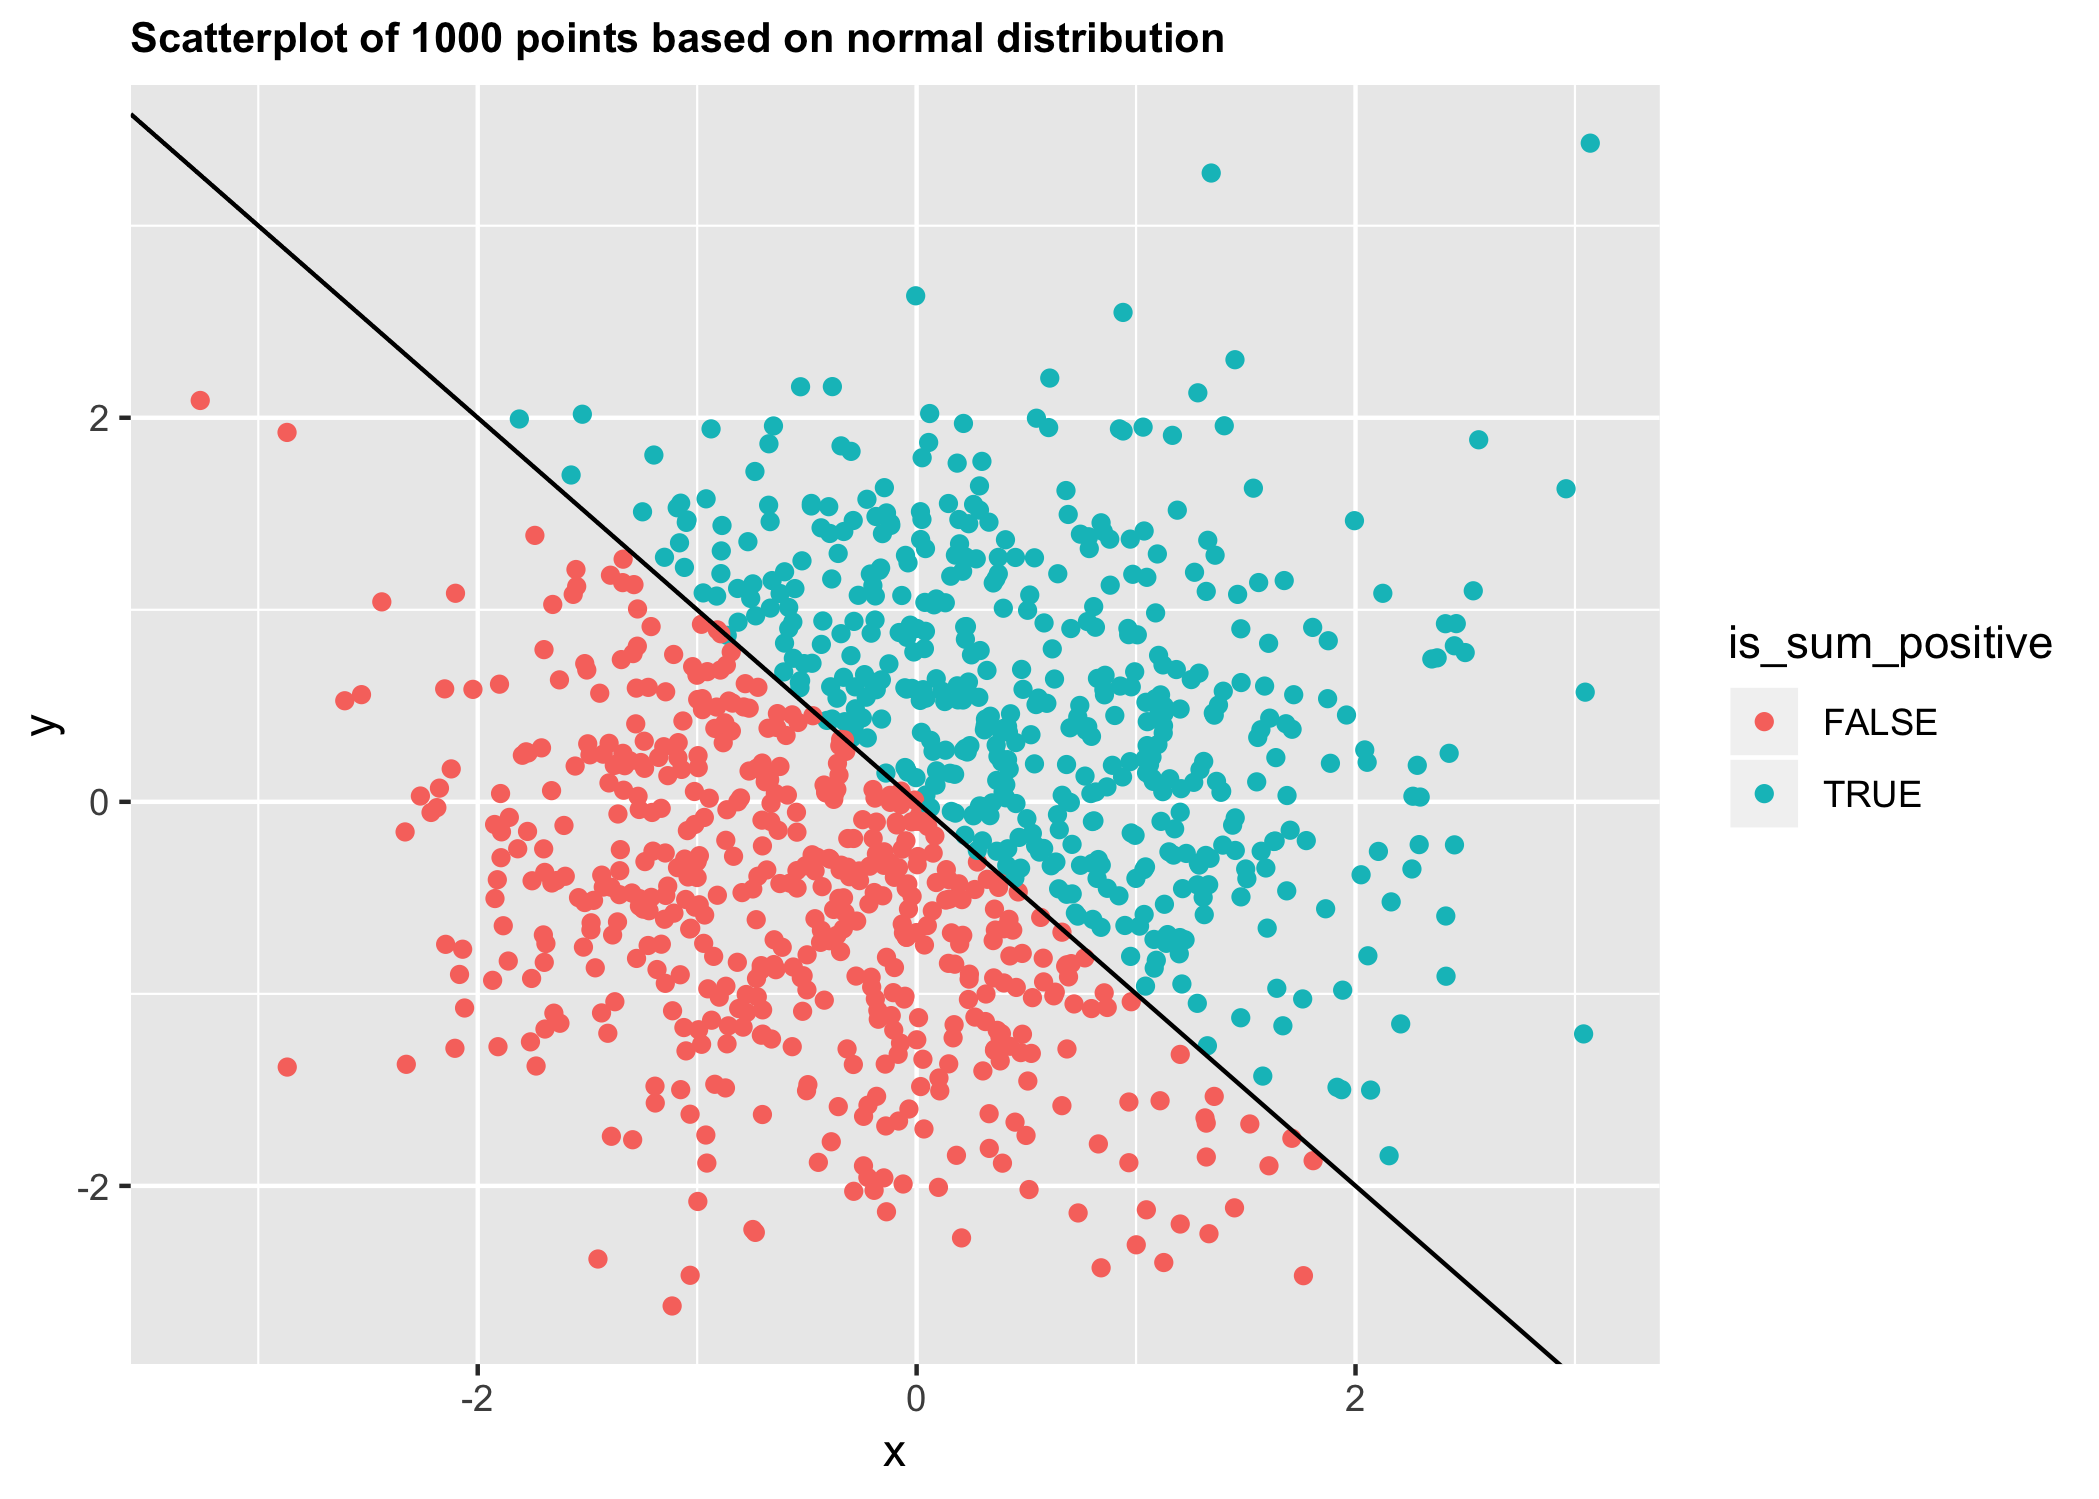
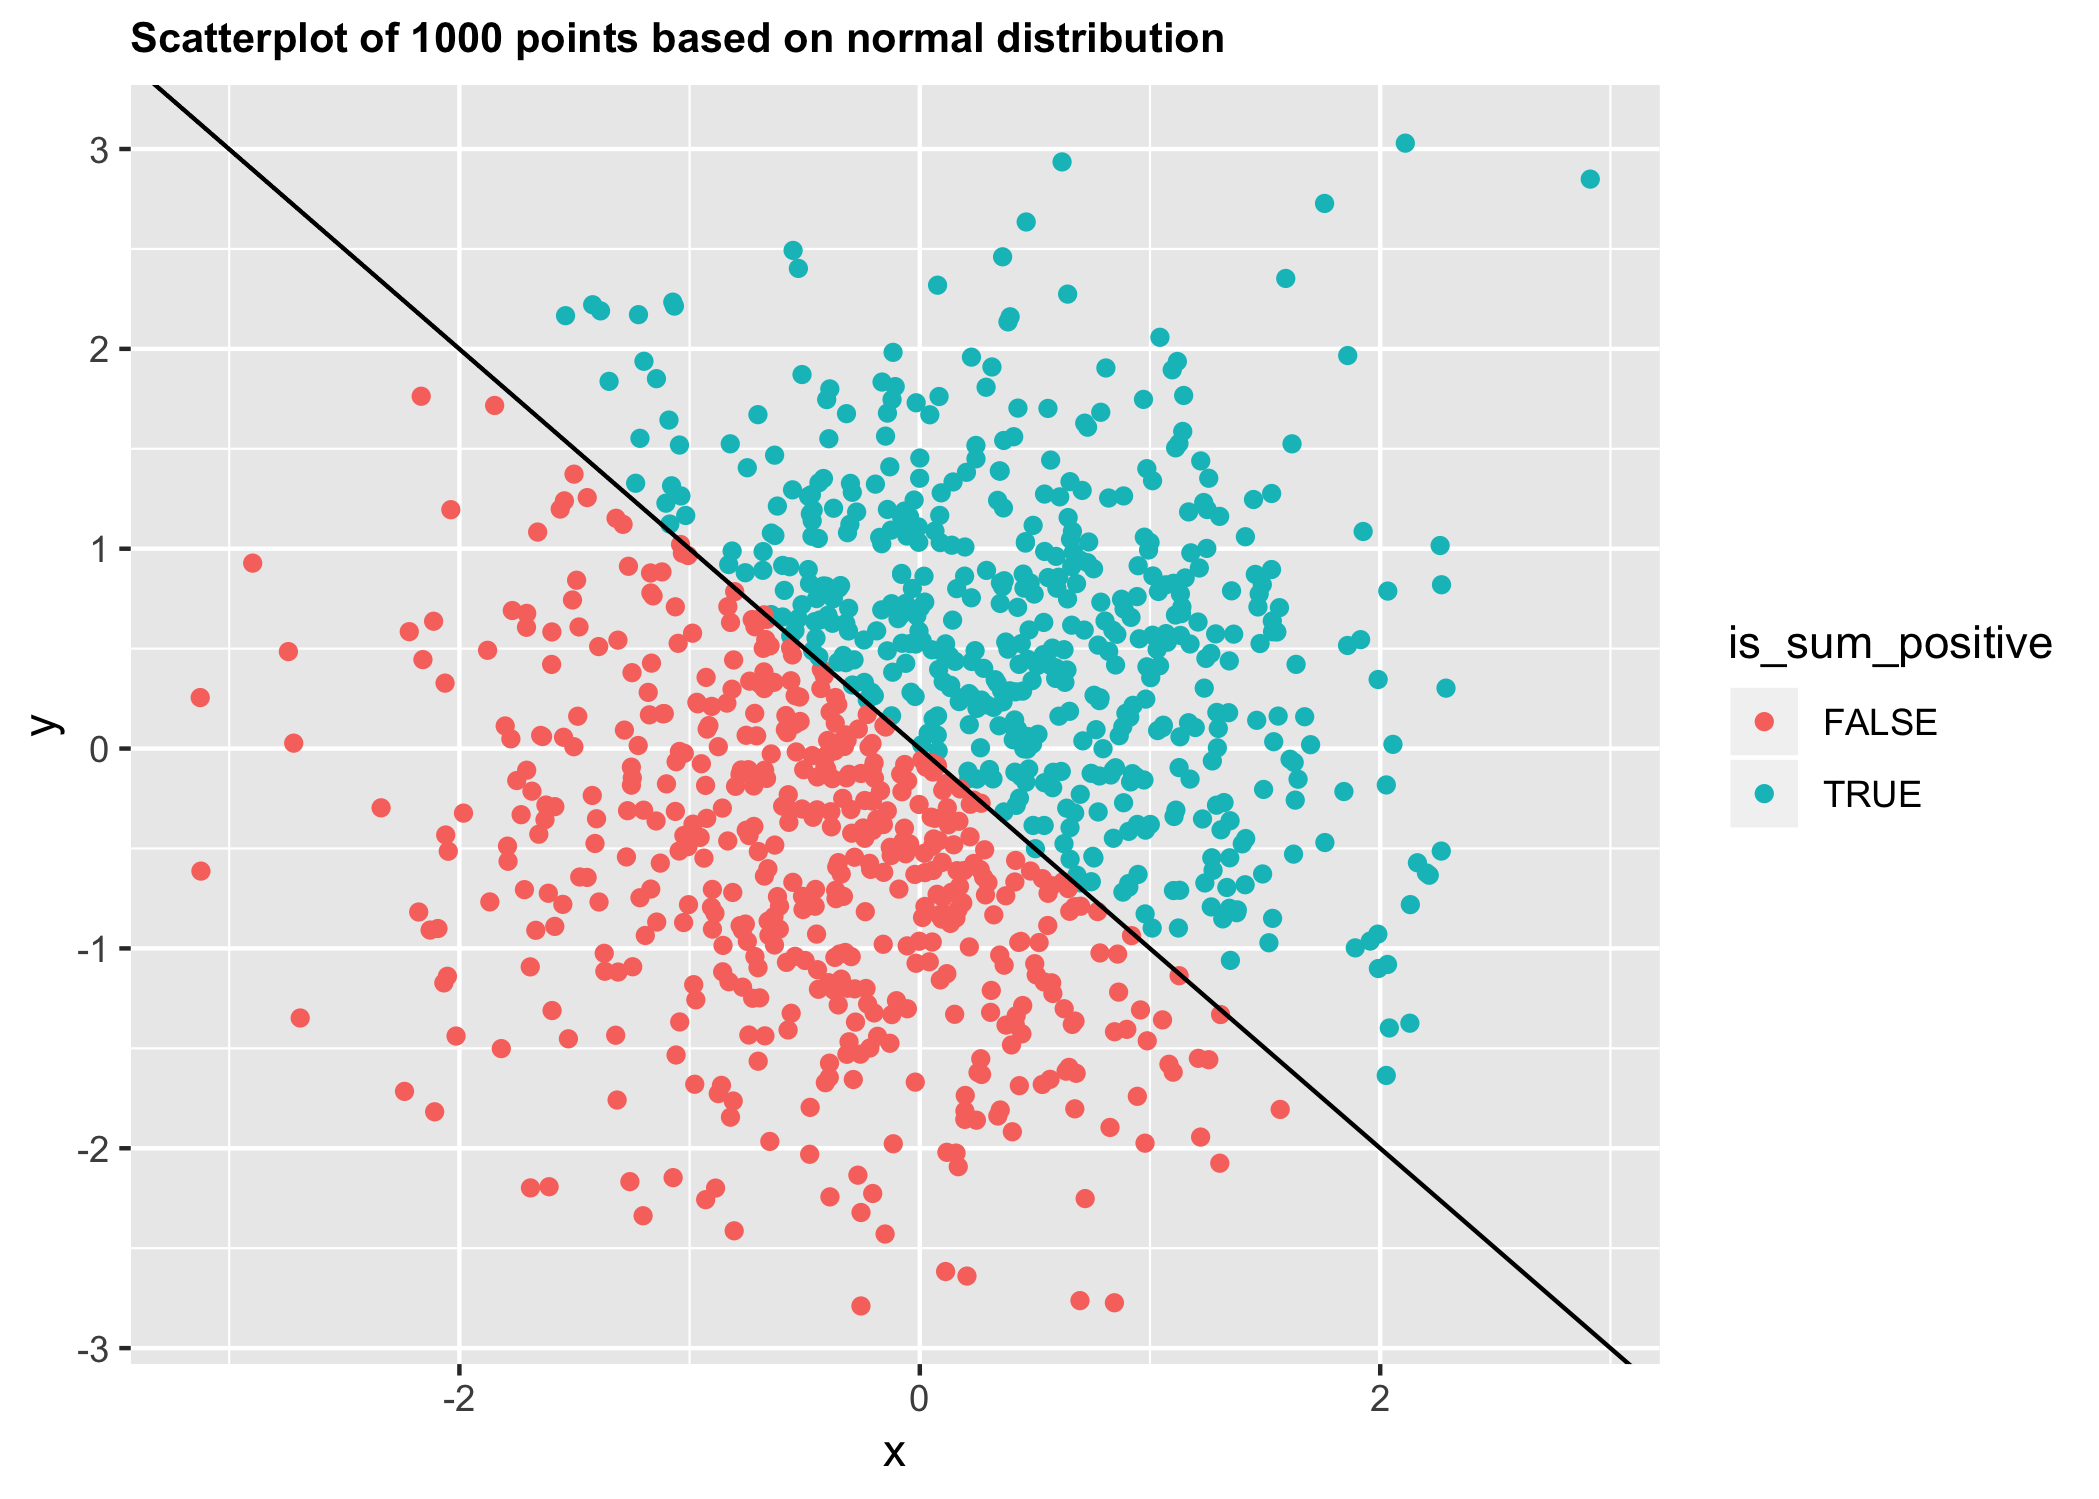
Final

diff --git a/p8105_hw1_zdz2101.md b/p8105_hw1_zdz2101.md
@@ -22,16 +22,26 @@ print(problem1_df)
     ## # A tibble: 10 x 4
     ##    numeric_vec logical_vec char_vec factor_vec
     ##          <dbl> <lgl>       <chr>    <fct>     
-    ##  1        2.18 TRUE        My       small     
-    ##  2        2.73 TRUE        name     medium    
-    ##  3        3.38 TRUE        is       large     
-    ##  4        4.33 TRUE        Zelos    small     
-    ##  5        2.01 TRUE        Zhu      medium    
-    ##  6        4.80 TRUE        and      large     
-    ##  7        2.79 TRUE        I        small     
-    ##  8        1.92 FALSE       like     medium    
-    ##  9        1.16 FALSE       to       large     
-    ## 10        1.30 FALSE       eat      x-large
+    ##  1       3.81  TRUE        My       small     
+    ##  2       4.33  TRUE        name     medium    
+    ##  3       1.17  FALSE       is       large     
+    ##  4       0.417 FALSE       Zelos    small     
+    ##  5       0.880 FALSE       Zhu      medium    
+    ##  6       2.82  TRUE        and      large     
+    ##  7       0.666 FALSE       I        small     
+    ##  8       1.95  FALSE       like     medium    
+    ##  9       4.87  TRUE        to       large     
+    ## 10       2.83  TRUE        eat      x-large
+
+``` r
+str(problem1_df)
+```
+
+    ## Classes 'tbl_df', 'tbl' and 'data.frame':    10 obs. of  4 variables:
+    ##  $ numeric_vec: num  3.813 4.332 1.172 0.417 0.88 ...
+    ##  $ logical_vec: logi  TRUE TRUE FALSE FALSE FALSE TRUE ...
+    ##  $ char_vec   : chr  "My" "name" "is" "Zelos" ...
+    ##  $ factor_vec : Factor w/ 4 levels "large","medium",..: 3 2 1 3 2 1 3 2 1 4
 
 ``` r
 #means <- apply(problem1_df, 2, mean) --- doesn't work
@@ -53,9 +63,9 @@ means_prob1 <- c(mean(problem1_df$numeric_vec),
 means_prob1
 ```
 
-    ## [1] 2.659472 0.700000       NA       NA
+    ## [1] 2.374621 0.500000       NA       NA
 
-The mean() function successfully worked for the numeric and logical vectors of the data frame while it produced NAs for the character and factor vectors. This makes sense: the mean of the first vector could be calculated since it is a numeric variable. It's exactly what we think it should be: the sum of the elements divided by the number of elements. As a result the mean is 2.66.
+The mean() function successfully worked for the numeric and logical vectors of the data frame while it produced NAs for the character and factor vectors. This makes sense: the mean of the first vector could be calculated since it is a numeric variable. It's exactly what we think it should be: the sum of the elements divided by the number of elements. As a result the mean is 2.37.
 
 Interestingly enough, the second vector in the data frame could also have a mean and that is because R seems to automatically consider FALSE into 0 and TRUE into 1. So, taking a "mean" of a logical allows us to see the proportion of TRUE cases, similarly if we were to take the sum we would see the total counts of TRUE's.
 
@@ -99,27 +109,27 @@ print(head(problem2_df))
 ```
 
     ## # A tibble: 6 x 5
-    ##        x       y is_sum_positive num_coerce factor_coerce
-    ##    <dbl>   <dbl> <lgl>                <dbl> <fct>        
-    ## 1  1.23  -0.269  TRUE                     1 TRUE         
-    ## 2  0.643  1.19   TRUE                     1 TRUE         
-    ## 3 -0.306 -0.390  FALSE                    0 FALSE        
-    ## 4  1.29   0.168  TRUE                     1 TRUE         
-    ## 5  0.593  0.513  TRUE                     1 TRUE         
-    ## 6 -1.36  -0.0634 FALSE                    0 FALSE
+    ##         x      y is_sum_positive num_coerce factor_coerce
+    ##     <dbl>  <dbl> <lgl>                <dbl> <fct>        
+    ## 1 -0.0831 -0.128 FALSE                    0 FALSE        
+    ## 2  0.218  -0.442 FALSE                    0 FALSE        
+    ## 3 -0.361  -0.593 FALSE                    0 FALSE        
+    ## 4  0.541  -0.171 TRUE                     1 TRUE         
+    ## 5  0.986   1.40  TRUE                     1 TRUE         
+    ## 6  0.0600 -0.452 FALSE                    0 FALSE
 
 ``` r
 str(problem2_df)
 ```
 
     ## Classes 'tbl_df', 'tbl' and 'data.frame':    1000 obs. of  5 variables:
-    ##  $ x              : num  1.229 0.643 -0.306 1.291 0.593 ...
-    ##  $ y              : num  -0.269 1.188 -0.39 0.168 0.513 ...
-    ##  $ is_sum_positive: logi  TRUE TRUE FALSE TRUE TRUE FALSE ...
-    ##  $ num_coerce     : num  1 1 0 1 1 0 1 1 0 0 ...
-    ##  $ factor_coerce  : Factor w/ 2 levels "FALSE","TRUE": 2 2 1 2 2 1 2 2 1 1 ...
+    ##  $ x              : num  -0.0831 0.2181 -0.3608 0.5411 0.9862 ...
+    ##  $ y              : num  -0.128 -0.442 -0.593 -0.171 1.4 ...
+    ##  $ is_sum_positive: logi  FALSE FALSE FALSE TRUE TRUE FALSE ...
+    ##  $ num_coerce     : num  0 0 0 1 1 0 1 0 0 1 ...
+    ##  $ factor_coerce  : Factor w/ 2 levels "FALSE","TRUE": 1 1 1 2 2 1 2 1 1 2 ...
 
-The size of the dataset is 1000 rows (observations) and 5 columns (variables). The mean of x is -0.01. The median of x is -0.04. The proportion of cases for which the logical vector is TRUE is 0.48.
+The size of the dataset is 1000 rows (observations) and 5 columns (variables). The mean of x is 0. The median of x is 0.01. The proportion of cases for which the logical vector is TRUE is 0.5.
 
 ``` r
 hw1plot_1 <- (ggplot(problem2_df, aes(x=x, y=y))
@@ -143,7 +153,7 @@ hw1plot_3 <- (ggplot(problem2_df, aes(x=x, y=y))
 hw1plot_1
 ```
 
-![](p8105_hw1_zdz2101_files/figure-markdown_github/Prob2%20graphs-1.png)
+![](p8105_hw1_zdz2101_files/figure-markdown_github/Problem%202%20graphs-1.png)
 
 ``` r
 ggsave(filename = "hw1plot1.png")
@@ -155,13 +165,13 @@ ggsave(filename = "hw1plot1.png")
 hw1plot_2
 ```
 
-![](p8105_hw1_zdz2101_files/figure-markdown_github/Prob2%20graphs-2.png)
+![](p8105_hw1_zdz2101_files/figure-markdown_github/Problem%202%20graphs-2.png)
 
 ``` r
 hw1plot_3
 ```
 
-![](p8105_hw1_zdz2101_files/figure-markdown_github/Prob2%20graphs-3.png)
+![](p8105_hw1_zdz2101_files/figure-markdown_github/Problem%202%20graphs-3.png)
 
 ``` r
 #library(gridExtra) --- for my viewing pleasure when I was working on this so I don't have to scroll through in viewer
